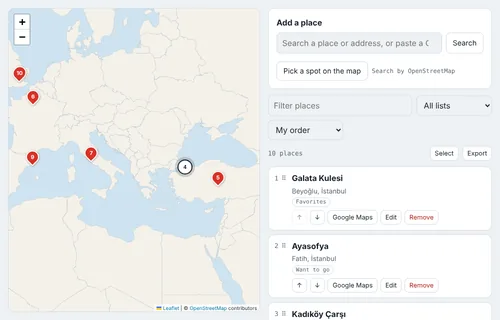
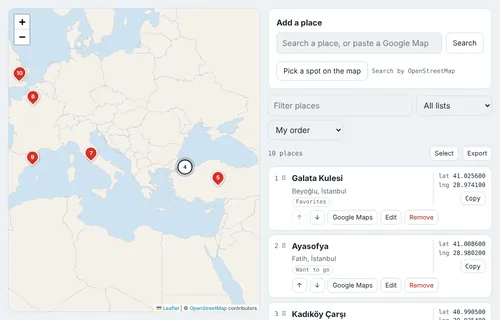
Saved Places: coordinates column beside each place (#6)
Claude-Session: https://claude.ai/code/session_0148C2v8nC6ADYJ3gsyT4gtY

diff --git a/projects/saved-places/index.html b/projects/saved-places/index.html
@@ -105,7 +105,7 @@
   .banner span { flex: 1 1 12rem; }
 
   ol.places { list-style: none; margin: 0; padding: 0; display: grid; gap: .5rem; }
-  li.place { background: var(--card); border: 1px solid var(--line); border-radius: 12px; padding: .65rem .75rem; display: grid; grid-template-columns: auto 1fr; gap: .2rem .7rem; cursor: pointer; }
+  li.place { background: var(--card); border: 1px solid var(--line); border-radius: 12px; padding: .65rem .75rem; display: grid; grid-template-columns: auto minmax(0, 1fr) auto; gap: .2rem .7rem; cursor: pointer; }
   li.place.active { border-color: var(--accent); box-shadow: 0 0 0 1px var(--accent); }
   li.place.dragging { opacity: .4; }
   li.place.dropbefore { box-shadow: 0 -3px 0 var(--accent); }
@@ -117,7 +117,11 @@
   li.place .tags { grid-column: 2; display: flex; gap: .3rem; flex-wrap: wrap; }
   .tag { font-family: var(--mono); font-size: .7rem; border: 1px solid var(--line); border-radius: 999px; padding: 0 .45rem; color: var(--muted); }
   .tag.warn { border-color: var(--approx); color: var(--approx); }
-  li.place .actions { grid-column: 2; display: flex; gap: .35rem; flex-wrap: wrap; margin-top: .2rem; }
+  li.place .coords { grid-column: 3; grid-row: 1; align-self: start; display: grid; justify-items: end; gap: .1rem; padding-left: .6rem; border-left: 1px solid var(--line); font: .75rem/1.35 var(--mono); color: var(--fg); text-align: right; white-space: nowrap; }
+  li.place .coords .lbl { color: var(--muted); }
+  li.place .coords .none { color: var(--muted); }
+  li.place .coords button { margin-top: .2rem; }
+  li.place .actions { grid-column: 2 / span 2; display: flex; gap: .35rem; flex-wrap: wrap; margin-top: .2rem; }
   .handle { cursor: grab; touch-action: none; }
   li.empty { color: var(--muted); text-align: center; padding: 2rem 1rem; border: 1px dashed var(--line); border-radius: 12px; }
   mark { background: var(--mark); color: inherit; border-radius: 3px; }
@@ -702,10 +706,32 @@
         a.append(g, btn("Edit", () => openEdit(p.id), "", `Edit ${p.name}`), btn("Remove", () => remove([p.id]), "danger", `Remove ${p.name}`));
         li.append(a);
       }
+      li.append(coordsCell(p, li.children.length - 1 - (selecting ? 0 : 1)));
       li.onclick = () => { if (selecting) { selected.has(p.id) ? selected.delete(p.id) : selected.add(p.id); render(); } else setActive(p.id, true); };
       list.append(li);
     });
     drawMarkers(shown);
+  }
+
+  // The coordinates column on the right of each place in the list.
+  function coordsCell(p, rows) {
+    const c = document.createElement("div"); c.className = "coords";
+    c.style.gridRow = `1 / span ${Math.max(1, rows)}`;
+    if (!hasLoc(p)) { const n = document.createElement("span"); n.className = "none"; n.textContent = "No coordinates"; c.append(n); return c; }
+    const lat = p.lat.toFixed(6), lng = p.lng.toFixed(6), pre = p.approx ? "≈ " : "";
+    for (const [lbl, v] of [["lat", lat], ["lng", lng]]) {
+      const d = document.createElement("div");
+      const l = document.createElement("span"); l.className = "lbl"; l.textContent = lbl + " ";
+      d.append(l, pre + v); c.append(d);
+    }
+    c.title = p.approx ? "Approximate, found by name" : "Latitude and longitude";
+    const b = btn("Copy", async () => {
+      const text = `${lat}, ${lng}`;
+      try { await navigator.clipboard.writeText(text); toast(`Copied ${text}`); }
+      catch { toast(`Coordinates: ${text}`); }
+    }, "", `Copy coordinates of ${p.name}`);
+    c.append(b);
+    return c;
   }
 
   function renumber(arr) { arr.forEach((p, i) => { if (p.order !== i + 1) { p.order = i + 1; p.updated = now(); } }); }
